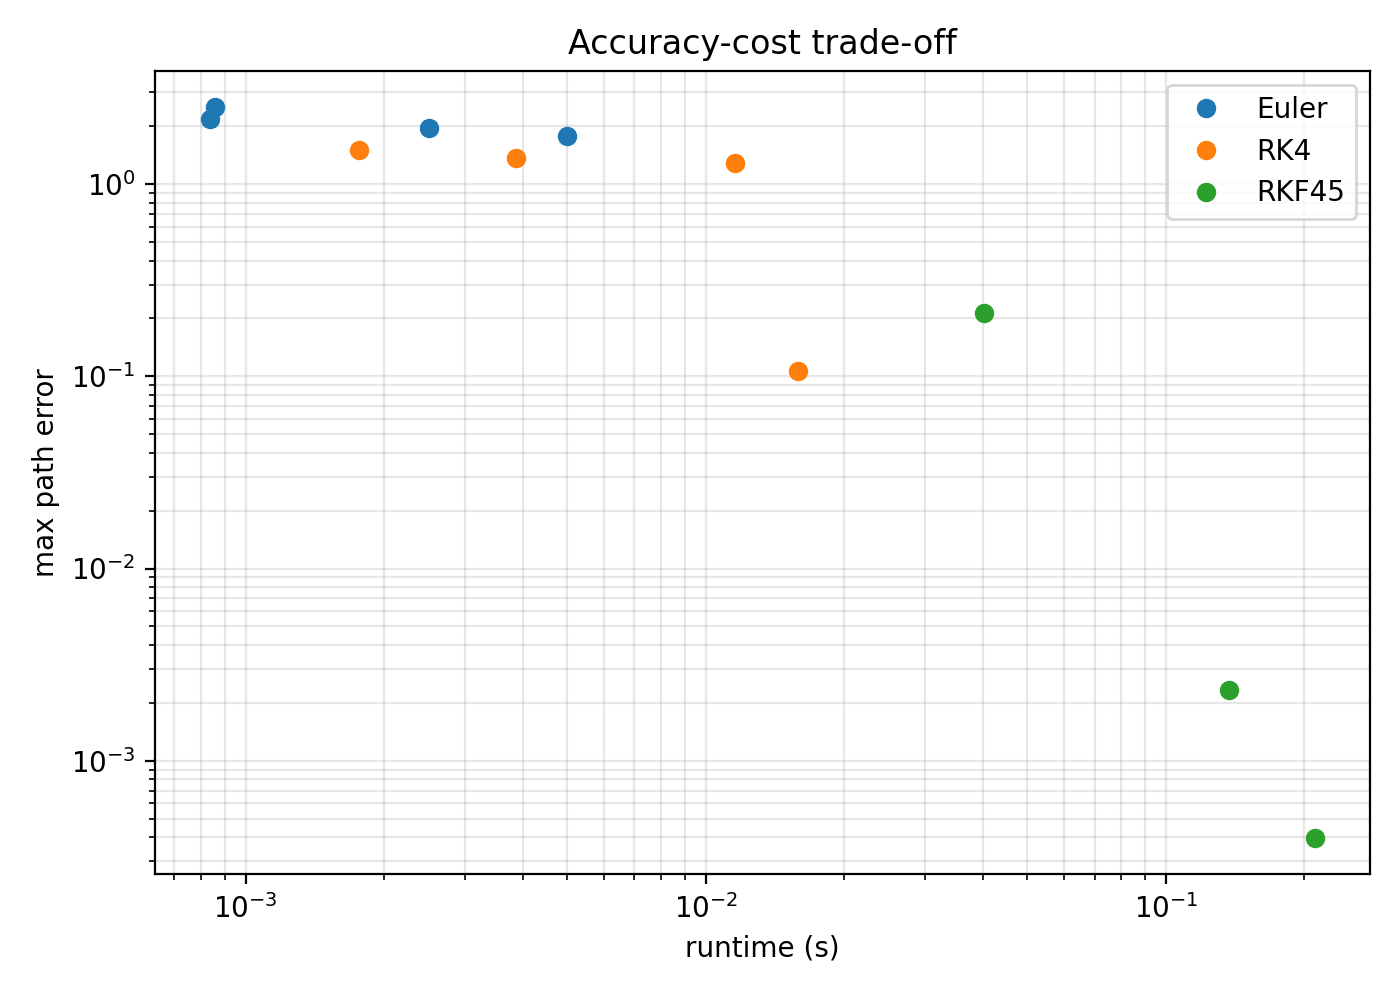
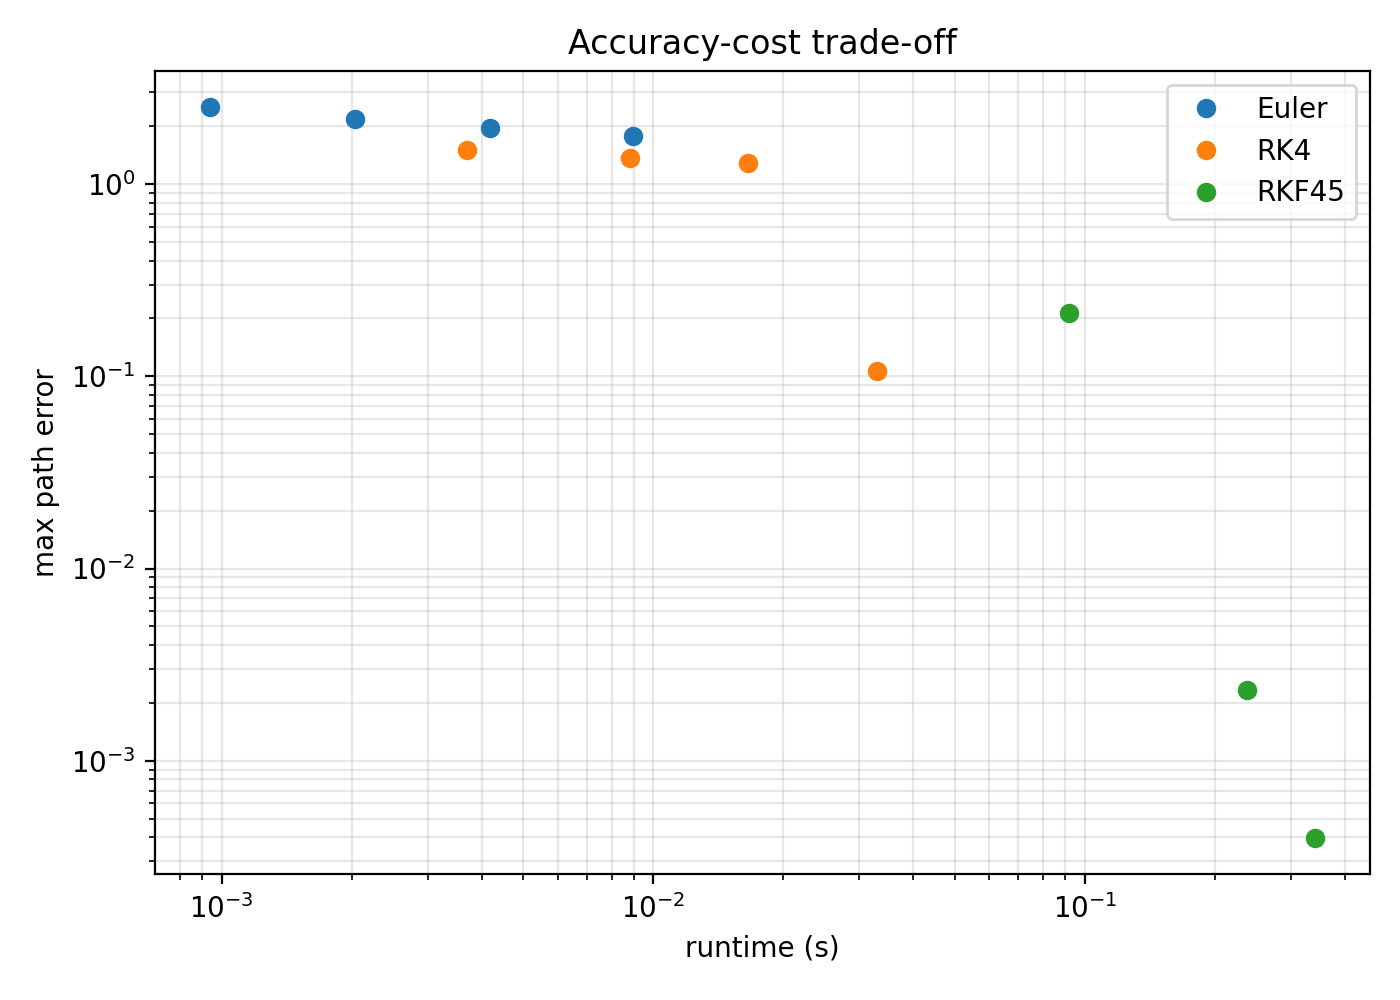
Improved the scripts with more coherent exploration generated many new figures

diff --git a/scripts/01_explore_steady_dipole.py b/scripts/01_explore_steady_dipole.py
@@ -14,7 +14,7 @@ FIG_DIR = ROOT / "figures"
 FIG_DIR.mkdir(exist_ok=True)
 
 # %%
-# This cell is just a quick scratch space to test the RK4 integrator on the steady dipole flow before we set up the full benchmark suite in the next cell.
+# This is just a quick scratch space to test the RK4 integrator on the steady dipole flow before we set up the full benchmark suite in the next cell.
 import numpy as np
 import matplotlib.pyplot as plt
 
@@ -36,11 +36,18 @@ from src.plotting import (
 y0 = np.array([0.2, 0.3])
 t_span = (0.0, 8.0)
 
-fixed_dts = [0.2, 0.1, 0.05, 0.025]
-rkf_tols = [1e-4, 1e-6, 1e-8]
+# Dense geometric sweep for fixed-step methods.
+fixed_dts = [0.4, 0.2, 0.1, 0.05, 0.025, 0.0125, 0.00625, 0.003125]
+
+# Denser tolerance sweep so the RKF45 trade-off and rejection-rate plots
+# look properly sampled rather than tokenistic.
+rkf_tols = [1e-3, 3e-4, 1e-4, 3e-5, 1e-5, 3e-6, 1e-6, 3e-7, 1e-7, 3e-8, 1e-8]
+
+# Use one representative RKF45 run for trajectory + step-size diagnostics.
+representative_tol = 1e-6
 
 # %%
-# Run solvers
+# Run representative solver instances
 euler = euler_integrate(steady_dipole_rhs, t_span, y0, dt=0.05)
 rk4 = rk4_integrate(steady_dipole_rhs, t_span, y0, dt=0.05)
 rkf45 = rkf45_integrate(
@@ -50,7 +57,7 @@ rkf45 = rkf45_integrate(
     h0=0.05,
     hmin=1e-5,
     hmax=0.1,
-    tol=1e-8,
+    tol=representative_tol,
 )
 
 print("Euler final state:", euler.y[-1])
@@ -70,9 +77,14 @@ plot_stream_field(
     density=1.3,
 )
 
-plot_trajectory(euler, ax=ax, label="Euler", linewidth=1.5)
-plot_trajectory(rk4, ax=ax, label="RK4", linewidth=1.8)
-plot_trajectory(rkf45, ax=ax, label="RKF45", linewidth=1.8)
+plot_trajectory(euler, ax=ax, label="Euler (dt=0.05)", linewidth=1.5)
+plot_trajectory(rk4, ax=ax, label="RK4 (dt=0.05)", linewidth=1.8)
+plot_trajectory(
+    rkf45,
+    ax=ax,
+    label=f"RKF45 (tol={representative_tol:.0e})",
+    linewidth=1.8,
+)
 
 ax.legend()
 ax.set_title("Steady dipole flow: trajectory comparison")
@@ -107,53 +119,134 @@ display_cols = [
 print(df[display_cols].to_string(index=False))
 
 # %%
-# Fixed-step convergence: Euler vs RK4
-fixed_df = df[df["setting_name"] == "dt"].copy()
+# Split benchmark table into fixed-step and adaptive subsets for separate plotting
+fixed = df[df["setting_name"] == "dt"].copy()
+adaptive = df[df["setting_name"] == "tol"].copy()
 
+# %%
+# Main figure: work-precision diagram
 fig, ax = plt.subplots(figsize=(7, 5))
-for method, group in fixed_df.groupby("method"):
-    group = group.sort_values("setting_value")
+
+for method, group in df.groupby("method"):
+    group = group.sort_values("nfev")
     ax.loglog(
+        group["nfev"],
+        group["max_path_error"],
+        marker="o",
+        linewidth=1.8,
+        label=method,
+    )
+
+ax.set_xlabel("Function evaluations (nfev)")
+ax.set_ylabel("Maximum path error")
+ax.set_title("Steady dipole benchmark: work-precision")
+ax.grid(True, which="both", alpha=0.3)
+ax.legend()
+
+fig.tight_layout()
+fig.savefig(FIG_DIR / "steady_dipole_work_precision.png", dpi=200)
+plt.show()
+
+# %%
+# Family-specific convergence plots
+fig, axes = plt.subplots(1, 2, figsize=(12, 5))
+
+# Fixed-step methods: Euler and RK4
+for method, group in fixed.groupby("method"):
+    group = group.sort_values("setting_value")
+    axes[0].loglog(
         group["setting_value"],
         group["max_path_error"],
         marker="o",
+        linewidth=1.8,
         label=method,
     )
 
-ax.set_xlabel("dt")
-ax.set_ylabel("max path error")
-ax.set_title("Fixed-step convergence")
-ax.grid(True, which="both", alpha=0.3)
-ax.legend()
+axes[0].set_xlabel("dt")
+axes[0].set_ylabel("Maximum path error")
+axes[0].set_title("Fixed-step convergence")
+axes[0].grid(True, which="both", alpha=0.3)
+axes[0].legend()
+
+# Adaptive method: RKF45
+adaptive_sorted = adaptive.sort_values("setting_value")
+axes[1].loglog(
+    adaptive_sorted["setting_value"],
+    adaptive_sorted["max_path_error"],
+    marker="o",
+    linewidth=1.8,
+    label="RKF45",
+)
+
+axes[1].set_xlabel("Tolerance")
+axes[1].set_ylabel("Maximum path error")
+axes[1].set_title("Adaptive tolerance sweep")
+axes[1].grid(True, which="both", alpha=0.3)
+axes[1].legend()
+
+fig.suptitle("Steady dipole benchmark convergence", y=1.02)
 fig.tight_layout()
-fig.savefig(FIG_DIR / "fixed_step_convergence.png", dpi=200)
+fig.savefig(FIG_DIR / "steady_dipole_convergence_panels.png", dpi=200, bbox_inches="tight")
 plt.show()
 
 # %%
-# Cross-method comparison: runtime vs error
+# Invariant preservation vs computational work
+if df["invariant_drift"].notna().any():
+    fig, ax = plt.subplots(figsize=(7, 5))
+
+    for method, group in df.groupby("method"):
+        group = group.sort_values("nfev")
+        ax.loglog(
+            group["nfev"],
+            group["invariant_drift"],
+            marker="o",
+            linewidth=1.8,
+            label=method,
+        )
+
+    ax.set_xlabel("Function evaluations (nfev)")
+    ax.set_ylabel("Max streamfunction drift")
+    ax.set_title("Steady dipole benchmark: invariant preservation")
+    ax.grid(True, which="both", alpha=0.3)
+    ax.legend()
+
+    fig.tight_layout()
+    fig.savefig(FIG_DIR / "steady_dipole_invariant_drift.png", dpi=200)
+    plt.show()
+
+# %%
+# RKF45 rejection ratio vs tolerance
+adaptive = adaptive.sort_values("setting_value").copy()
+adaptive["total_attempted_steps"] = adaptive["accepted_steps"] + adaptive["rejected_steps"]
+adaptive["reject_ratio"] = np.where(
+    adaptive["total_attempted_steps"] > 0,
+    adaptive["rejected_steps"] / adaptive["total_attempted_steps"],
+    np.nan,
+)
+
 fig, ax = plt.subplots(figsize=(7, 5))
-for method, group in df.groupby("method"):
-    ax.loglog(
-        group["runtime_sec"],
-        group["max_path_error"],
-        marker="o",
-        linestyle="none",
-        label=method,
-    )
+ax.plot(
+    adaptive["setting_value"],
+    adaptive["reject_ratio"],
+    marker="o",
+    linewidth=1.8,
+)
 
-ax.set_xlabel("runtime (s)")
-ax.set_ylabel("max path error")
-ax.set_title("Accuracy-cost trade-off")
+ax.set_xscale("log")
+ax.set_xlabel("Tolerance")
+ax.set_ylabel("Rejected-step fraction")
+ax.set_title("RKF45 rejection rate vs tolerance")
 ax.grid(True, which="both", alpha=0.3)
-ax.legend()
+
 fig.tight_layout()
-fig.savefig(FIG_DIR / "runtime_vs_error.png", dpi=200)
+fig.savefig(FIG_DIR / "rkf45_reject_ratio_vs_tol.png", dpi=200)
 plt.show()
 
 # %%
-# Adaptive step sizes for RKF45
+# RKF45 adaptive step-size history for one representative run
 fig, ax = plt.subplots(figsize=(8, 4))
 plot_step_sizes(rkf45, ax=ax)
+ax.set_title(f"RKF45 accepted step sizes (tol={representative_tol:.0e})")
 fig.tight_layout()
-fig.savefig(FIG_DIR / "rkf45_step_sizes.png", dpi=200)
+fig.savefig(FIG_DIR / "rkf45_step_sizes_representative.png", dpi=200)
 plt.show()

diff --git a/scripts/02_explore_blinking_dipole.py b/scripts/02_explore_blinking_dipole.py
@@ -8,30 +8,159 @@ while not (ROOT / "src").exists() and ROOT != ROOT.parent:
 
 if str(ROOT) not in sys.path:
     sys.path.insert(0, str(ROOT))
-    
-from src.flows import blinking_vortex_rhs
-from src.ftle import ftle_grid
-from src.plotting import plot_ftle_field
-import matplotlib.pyplot as plt
+
 FIG_DIR = ROOT / "figures"
 FIG_DIR.mkdir(exist_ok=True)
 
 # %%
+import numpy as np
+import matplotlib.pyplot as plt
+
+from src.flows import blinking_vortex_rhs
+from src.ftle import ftle_grid, nearby_separation
+from src.solvers import rkf45_integrate
+from src.plotting import plot_ftle_field, plot_trajectory, plot_step_sizes
+
+# %%
+# Problem setup
+# Keep the flow parameters explicit so the notebook reads like a deliberate experiment.
+flow_kwargs = {
+    "alpha": 1.0,
+    "beta0": 0.4,
+    "period": 1.0,
+}
+
+t_span = (0.0, 4.0)
+xlim = (-1.0, 1.0)
+ylim = (-1.0, 1.0)
+
+# FTLE settings
+# This implementation computes the FTLE field point-by-point, so use a moderate
+# grid while iterating. Once you're happy with the framing, you can increase this.
+nx = 180
+ny = 180
+delta0 = (1e-6, 0.0)
+
+ftle_solver_kwargs = {
+    "tol": 1e-7,
+    "h0": 0.005,
+    "hmin": 1e-5,
+    "hmax": 0.02,
+}
+
+# Representative trajectory / diagnostic settings
+representative_y0 = np.array([-0.75, 0.20])
+
+sample_y0s = [
+    np.array([-0.85, -0.20]),
+    np.array([-0.85,  0.00]),
+    np.array([-0.85,  0.20]),
+    np.array([-0.20,  0.65]),
+    np.array([ 0.20, -0.65]),
+]
+
+# %%
+# Compute FTLE field
 xs, ys, field = ftle_grid(
     blinking_vortex_rhs,
-    t_span=(0.0, 4.0),
-    xlim=(-1.0, 1.0),
-    ylim=(-1.0, 1.0),
-    nx=40,
-    ny=40,
-    delta0=(1e-6, 0.0),
+    t_span=t_span,
+    xlim=xlim,
+    ylim=ylim,
+    nx=nx,
+    ny=ny,
+    delta0=delta0,
     solver="rkf45",
-    solver_kwargs={"tol": 1e-7, "h0": 0.02, "hmin": 1e-5, "hmax": 0.05},
+    solver_kwargs=ftle_solver_kwargs,
+    rhs_kwargs=flow_kwargs,
 )
 
+print("FTLE field shape:", field.shape)
+print("FTLE min / max:", np.nanmin(field), np.nanmax(field))
+
+# %%
+# Figure 1: clean FTLE field
 fig, ax = plt.subplots(figsize=(7, 6))
 plot_ftle_field(xs, ys, field, ax=ax)
+ax.set_title("Blinking vortex flow: FTLE field")
 fig.tight_layout()
-fig.savefig(FIG_DIR / "blinking_vortex_ftle.png", dpi=200)
+fig.savefig(FIG_DIR / "blinking_vortex_ftle.png", dpi=300)
 plt.show()
+
 # %%
+# Figure 2: FTLE field with representative trajectories overlaid
+fig, ax = plt.subplots(figsize=(7, 6))
+plot_ftle_field(xs, ys, field, ax=ax)
+
+for k, y0 in enumerate(sample_y0s, start=1):
+    traj = rkf45_integrate(
+        blinking_vortex_rhs,
+        t_span,
+        y0,
+        **ftle_solver_kwargs,
+        **flow_kwargs,
+    )
+    plot_trajectory(
+        traj,
+        ax=ax,
+        label=f"seed {k}",
+        linewidth=1.2,
+        alpha=0.9,
+    )
+
+seed_array = np.vstack(sample_y0s)
+ax.scatter(seed_array[:, 0], seed_array[:, 1], s=18, marker="o")
+ax.set_xlim(*xlim)
+ax.set_ylim(*ylim)
+ax.set_title("Blinking vortex flow: FTLE field with sample trajectories")
+ax.legend(loc="upper right", fontsize=8)
+fig.tight_layout()
+fig.savefig(FIG_DIR / "blinking_vortex_ftle_with_trajectories.png", dpi=300)
+plt.show()
+
+# %%
+# Figure 3: nearby-trajectory separation for one representative initial condition
+t_sep, sep = nearby_separation(
+    blinking_vortex_rhs,
+    t_span=t_span,
+    y0=representative_y0,
+    delta0=delta0,
+    solver="rkf45",
+    solver_kwargs=ftle_solver_kwargs,
+    rhs_kwargs=flow_kwargs,
+)
+
+fig, ax = plt.subplots(figsize=(7, 4.5))
+ax.semilogy(t_sep, sep, linewidth=1.8)
+ax.set_xlabel("t")
+ax.set_ylabel("Separation distance")
+ax.set_title("Blinking vortex flow: nearby-trajectory separation")
+ax.grid(True, which="both", alpha=0.3)
+fig.tight_layout()
+fig.savefig(FIG_DIR / "blinking_vortex_nearby_separation.png", dpi=300)
+plt.show()
+
+# %%
+# Representative RKF45 trajectory for diagnostics
+traj_rep = rkf45_integrate(
+    blinking_vortex_rhs,
+    t_span,
+    representative_y0,
+    **ftle_solver_kwargs,
+    **flow_kwargs,
+)
+
+print("Representative final state:", traj_rep.y[-1])
+print(
+    "Representative RKF45 accepted / rejected:",
+    traj_rep.accepted_steps,
+    traj_rep.rejected_steps,
+)
+
+# %%
+# Figure 4: accepted step sizes for the representative adaptive run
+fig, ax = plt.subplots(figsize=(8, 4))
+plot_step_sizes(traj_rep, ax=ax)
+ax.set_title("Blinking vortex flow: RKF45 accepted step sizes")
+fig.tight_layout()
+fig.savefig(FIG_DIR / "blinking_vortex_rkf45_step_sizes.png", dpi=300)
+plt.show()
